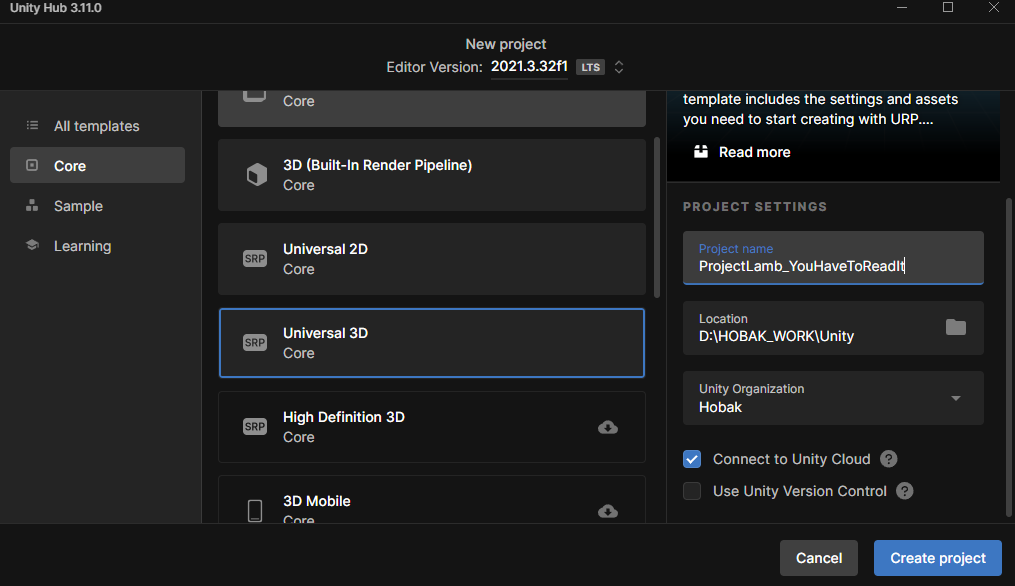
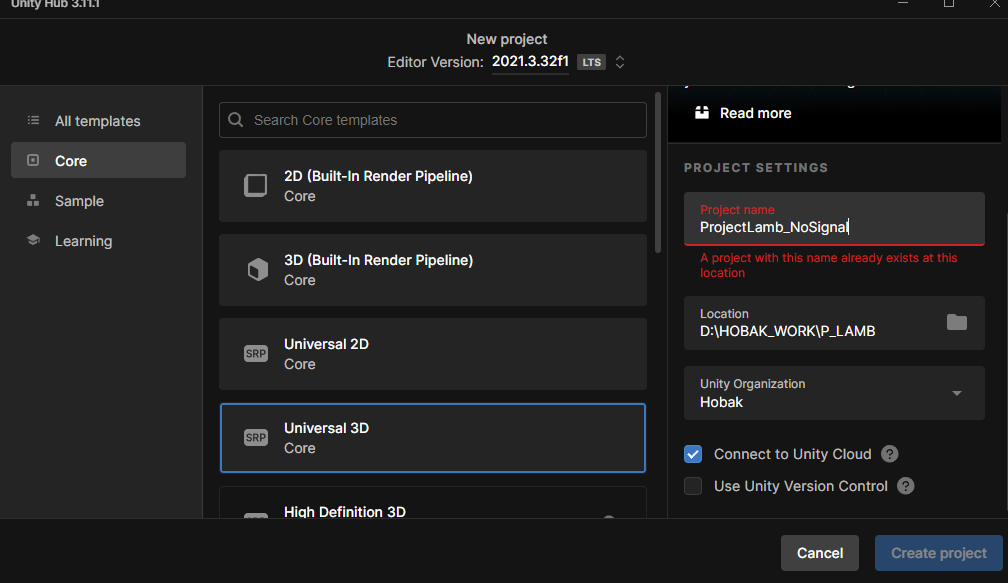
[doc] gitignore, readme 파일 수정

diff --git a/README.md b/README.md
@@ -137,6 +137,24 @@ Assets/UserData.json
 # Edit from neoskyclad
 .fmod_editor.log
 Assets/UserData.json
+
+# Never ignore DLLs in the FMOD subfolder.
+!/[Aa]ssets/Plugins/FMOD/**/lib/*
+
+# Don't ignore images and gizmos used by FMOD in the Unity Editor.
+!/[Aa]ssets/Gizmos/FMOD/*
+!/[Aa]ssets/Editor Default Resources/FMOD/*
+
+# Ignore the Cache folder since it is updated locally.
+/[Aa]ssets/Plugins/FMOD/Cache/*
+
+# Ignore bank files in the StreamingAssets folder.
+/[Aa]ssets/StreamingAssets/**/*.bank
+/[Aa]ssets/StreamingAssets/**/*.bank.meta
+
+# If the source bank files are kept outside of the StreamingAssets folder then these can be ignored.
+# Log files can be ignored.
+fmod_editor.log
 ```
 
 ---